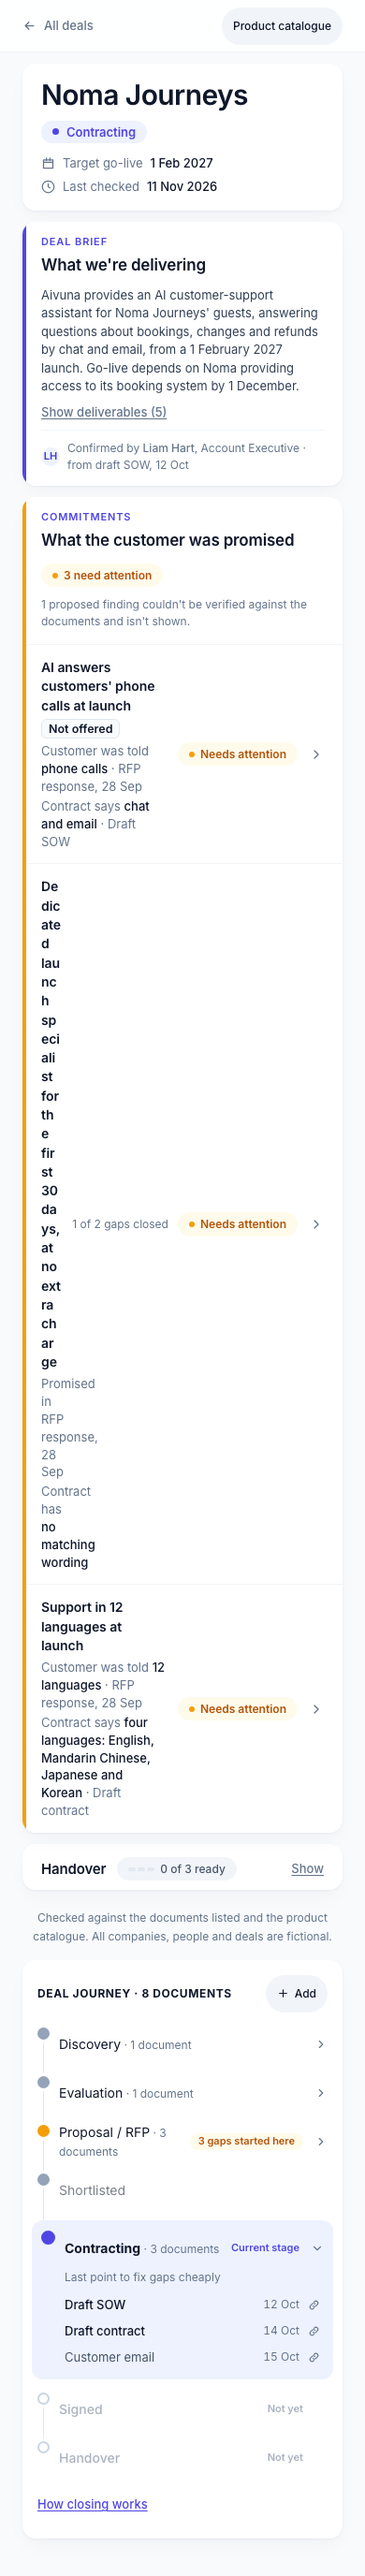
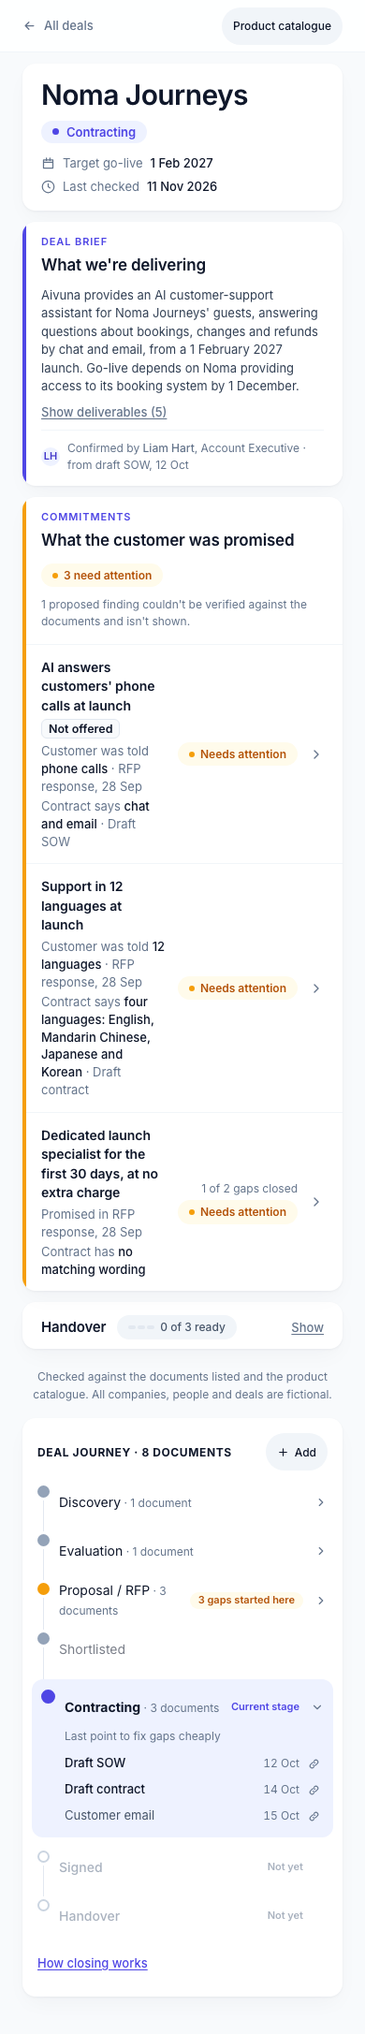
Public demo: 'Try it in 5 steps' guide card; phone row layout fix; tests 822/221

diff --git a/frontend/src/DealPage.jsx b/frontend/src/DealPage.jsx
@@ -20,8 +20,8 @@ import { IdentityLine, useScrolledPast } from "./Identity.jsx";
 import { CardHead, Drawer, DrawerHead, CommitmentView, DocumentView, MismatchSentence, TitleLine, Icon as DIcon, ICON } from "./Drawer.jsx";
 import { FICTIONAL } from "./brand.js";
 import CatalogueModal from "./CatalogueModal.jsx";
-import { DemoNameNote, SamplePicker, UseSampleText } from "./DemoUI.jsx";
-import { NAME_NOTE, REFUSED_FINDINGS, handoverSampleFor, noteLimit, noteSampleFor, useDemo } from "./demo.js";
+import { DemoNameNote, GuideCard, SamplePicker, UseSampleText } from "./DemoUI.jsx";
+import { NAME_NOTE, REFUSED_FINDINGS, guideAction, handoverSampleFor, noteLimit, noteSampleFor, useDemo } from "./demo.js";
 import "./DealPage.css";
 
 const Icon = ({ d, size = 15 }) => <DIcon d={d} size={size} />;
@@ -110,12 +110,12 @@ function AttentionChip({ open, noted }) {
 
 // One row of the list: title, the sentence-style mismatch line, where it was first promised, the status, a chevron. Click opens
 // the drawer; the row takes a soft accent tint while its commitment is open there.
-export function CommitRow({ c, status, active, onOpen }) {
+export function CommitRow({ c, status, active, onOpen, flash = false }) {
   const unresolved = c.issues.filter((i) => i.state !== "Resolved");
   const st = STATUS_CHIP[status];
   const noteRes = unresolved.find((i) => i.note_resolution)?.note_resolution;
   return (
-    <li className={`dp-prow is-${status} ${active ? "is-active" : ""}`}>
+    <li className={`dp-prow is-${status} ${active ? "is-active" : ""}${flash ? " is-flash" : ""}`}>
       <div className="dp-prow-head" onClick={onOpen} role="button" tabIndex={0} aria-haspopup="dialog" aria-expanded={active}
            onKeyDown={(e) => (e.key === "Enter" || e.key === " ") && (e.preventDefault(), onOpen())}>
         <span className="dp-prow-main">
@@ -688,6 +688,7 @@ export default function DealPage({ deal, onBack, onDealsChanged, onClassic }) {
   const [change, setChange] = useState(null); // the "What changed" card after a document or a recheck
   const [askName, setAskName] = useState(null); // { fn, initial }: the name prompt, only for actions that have no form of their own
   const [help, setHelp] = useState(false);
+  const [flash, setFlash] = useState({ row: null, handover: false }); // the guide card's target, highlighted for a moment
   const [handoverManual, setHandoverManual] = useState(null); // { stage, open }: a person's choice for the Handover card, kept until the stage changes or the page reloads
   const handoverBodyId = useId();
   // The drawer: { type: "commitment", id } | { type: "doc", docKey, quote, fromId } | { type: "add", fromId } | { type: "note", id }
@@ -727,6 +728,19 @@ export default function DealPage({ deal, onBack, onDealsChanged, onClassic }) {
     return () => window.removeEventListener("hashchange", onHash);
   }, [reg]);
 
+  // The guide card's "Do step N" (public mode): open the right place, scroll to it and highlight it briefly.
+  const doStep = (step) => {
+    const a = guideAction(step, reg.commitments);
+    if (a.drawer) setDrawer(a.drawer);
+    if (a.handover) setHandoverManual({ stage: reg.stage.current, open: true });
+    setFlash({ row: a.row, handover: a.handover });
+    setTimeout(() => {
+      const at = a.row != null ? promiseRowIds.indexOf(a.row) : -1; // the row's place in the list; the row markup itself carries no id
+      const target = a.handover ? document.getElementById("dp-handover") : at >= 0 ? document.querySelectorAll("#dp-commitments .dp-plist > li")[at] : document.getElementById("dp-commitments");
+      target?.scrollIntoView({ behavior: "smooth", block: "center" });
+    }, 60);
+    setTimeout(() => setFlash({ row: null, handover: false }), 2600);
+  };
   const openCommitment = (c) => { setDrawer({ type: "commitment", id: c.id }); writeHash(c.ref); };
   const closeDrawer = useCallback(() => { setDrawer(null); writeHash(null); }, [writeHash]);
 
@@ -784,6 +798,7 @@ export default function DealPage({ deal, onBack, onDealsChanged, onClassic }) {
     ...closedIds.map((id) => ({ c: byId(id), status: "closed" })),
   ].filter((r) => r.c));
   const statusOf = (id) => promiseRows.find((r) => r.c.id === id)?.status ?? "open";
+  const promiseRowIds = promiseRows.map((r) => r.c.id);
   const notes = reg.handover.notes;
   const STAGE_ORDER = ["discovery", "evaluation", "proposal", "shortlisted", "contracting", "signed", "handover"];
   const isSigned = STAGE_ORDER.indexOf(reg.stage.current) >= STAGE_ORDER.indexOf("signed"); // from the documents only
@@ -838,6 +853,8 @@ export default function DealPage({ deal, onBack, onDealsChanged, onClassic }) {
           {message && <div className={`dp-message is-${message.kind}`} role="status">{message.text}</div>}
           {change && <ChangePanel change={change} titleOf={(n) => reg.commitments.find((c) => c.name === n)?.display_name || n} onClose={() => setChange(null)} />}
 
+          {demo.public && <GuideCard deal={deal} documents={docs.documents} commitments={reg.commitments} onDo={doStep} />}
+
           <section className={`dp-card dp-promises ${openRows.length ? "is-attention" : "is-clear"}`} id="dp-commitments">
             <CardHead eyebrow="Commitments" title="What the customer was promised">
               <AttentionChip open={openRows.length} noted={(reg.noted_rows || []).length} />
@@ -846,12 +863,12 @@ export default function DealPage({ deal, onBack, onDealsChanged, onClassic }) {
             {promiseRows.length === 0 && <p className="dp-faint dp-pad">No commitments with gaps on the current documents.</p>}
             <ul className="dp-plist">
               {promiseRows.map(({ c, status }) => (
-                <CommitRow key={c.id} c={c} status={status} active={fromId === c.id} onOpen={() => openCommitment(c)} />
+                <CommitRow key={c.id} c={c} status={status} active={fromId === c.id} flash={flash.row === c.id} onOpen={() => openCommitment(c)} />
               ))}
             </ul>
           </section>
 
-          <section className="dp-card dp-handover">
+          <section className={`dp-card dp-handover ${flash.handover ? "is-flash" : ""}`.trim()} id="dp-handover">
             <HandoverHead checklist={checklist} missing={missing} open={handoverIsOpen} bodyId={handoverBodyId}
                           onToggle={() => setHandoverManual({ stage: reg.stage.current, open: !handoverIsOpen })} />
             <div className="dp-handover-body" id={handoverBodyId} hidden={!handoverIsOpen}>

diff --git a/frontend/src/demo.js b/frontend/src/demo.js
@@ -79,3 +79,48 @@ export const noteSampleFor = (demo, deal, commitment) => {
   return s && s.match.test(`${commitment?.display_name ?? ""} ${commitment?.name ?? ""}`) ? s : null;
 };
 export const handoverSampleFor = (demo, deal, role) => (demo?.public ? HANDOVER_SAMPLES[deal]?.[role] ?? null : null);
+
+// The guide card, "Try it in 5 steps" (11 Nov, public mode, Noma and Alder). Step numbers are the sample panel's numbers (1-3), so "After step N" there
+// refers to the card. A step is done when the deal shows it: a sample is in the deal (the same test the sample list uses), a note is recorded on
+// its row, or the handover is complete. The current step is the first one not done.
+export const GUIDE_TITLE = "Try it in 5 steps";
+export const GUIDE_DONE = "Done. Reset demo to try again.";
+export const GUIDES = {
+  noma_journeys: [
+    { label: "Launch specialist: add the approval", kind: "sample", sample: 0, row: /launch specialist/i },
+    { label: "Support in 12 languages: add the revised contract", kind: "sample", sample: 1, row: /12 languages/i },
+    { label: "Add the signed contract", kind: "sample", sample: 2, row: null },
+    { label: "Phone calls: record the customer's agreement as a note", kind: "note", row: /phone/i },
+    { label: "Complete the handover", kind: "handover", row: null },
+  ],
+  alder_bank: [
+    { label: "Coaching-scam detection: add the BioCatch connector approval", kind: "sample", sample: 0, row: /coaching/i },
+    { label: "Coaching-scam detection: add the revised SOW", kind: "sample", sample: 1, row: /coaching/i },
+    { label: "Add the signed contract", kind: "sample", sample: 2, row: null },
+    { label: "Hosting on Microsoft Azure: record the customer's agreement as a note", kind: "note", row: /hosting/i },
+    { label: "Complete the handover", kind: "handover", row: null },
+  ],
+};
+export const findGuideRow = (commitments, re) => (re ? (commitments ?? []).find((c) => re.test(`${c.display_name ?? ""} ${c.name ?? ""}`)) ?? null : null);
+
+export function guideSteps(deal, samples, documents, commitments, handoverComplete = false) {
+  const list = GUIDES[deal] ?? [];
+  const added = sampleSteps(samples ?? [], documents);
+  const done = list.map((g, i) => {
+    if (handoverComplete) return true;
+    if (g.kind === "sample") return added[g.sample]?.state === "done";
+    if (g.kind === "note") return (findGuideRow(commitments, g.row)?.noted_count ?? 0) > 0;
+    return false; // "Complete the handover" is done only when the record is locked
+  });
+  const current = done.indexOf(false);
+  return list.map((g, i) => ({ ...g, n: i + 1, state: done[i] ? "done" : i === current ? "current" : "later" }));
+}
+
+// Where "Do step N" goes: the drawer to open (the sample panel from that commitment, the sample panel from + Add, or that row's note form),
+// the row to scroll to and highlight, or the Handover card to expand and scroll to.
+export function guideAction(step, commitments) {
+  const row = findGuideRow(commitments, step.row);
+  if (step.kind === "sample") return { drawer: { type: "add", fromId: row ? row.id : null }, row: row ? row.id : null, handover: false };
+  if (step.kind === "note") return { drawer: row ? { type: "note", id: row.id } : null, row: row ? row.id : null, handover: false };
+  return { drawer: null, row: null, handover: true };
+}

diff --git a/frontend/src/DemoUI.jsx b/frontend/src/DemoUI.jsx
@@ -1,7 +1,7 @@
 // Public demo pieces (10 Nov): the banner, the note under a name field, and the sample-file list that replaces uploading.
 import { useEffect, useState } from "react";
 import * as api from "./api.js";
-import { ALL_ADDED, NAME_NOTE, NO_SAMPLES, addSample, filingLine, sampleSteps, useDemo } from "./demo.js";
+import { ALL_ADDED, GUIDES, GUIDE_DONE, GUIDE_TITLE, NAME_NOTE, NO_SAMPLES, addSample, filingLine, guideSteps, sampleSteps, useDemo } from "./demo.js";
 
 export function DemoBanner() {
   const demo = useDemo();
@@ -10,6 +10,37 @@ export function DemoBanner() {
 
 export function DemoNameNote() {
   return useDemo().public ? <p className="dp-faint dp-small demo-name-note">{NAME_NOTE}</p> : null;
+}
+
+// "Try it in 5 steps": above the commitments card on the public Noma and Alder deal pages. Done steps are ticked, the current one is highlighted
+// with a "Do step N" button, later ones are plain. The card can be collapsed. With the handover complete (the locked record) it says it is done.
+export function GuideCard({ deal, documents, commitments, onDo, handoverComplete = false, initialSamples = null, initialCollapsed = false }) {
+  const [samples, setSamples] = useState(initialSamples);
+  const [collapsed, setCollapsed] = useState(initialCollapsed);
+  useEffect(() => { if (!handoverComplete && !initialSamples) api.fetchSamples(deal).then((r) => setSamples(r.samples), () => setSamples([])); }, [deal, handoverComplete, initialSamples]);
+  if (!GUIDES[deal] || (!handoverComplete && !samples)) return null;
+  const steps = guideSteps(deal, samples, documents, commitments, handoverComplete);
+  const allDone = steps.every((s) => s.state === "done");
+  return (
+    <section className="dp-card demo-guide" aria-label={GUIDE_TITLE}>
+      <div className="demo-guide-head">
+        <h2>{GUIDE_TITLE}</h2>
+        <button type="button" className="dp-link-btn dp-brand" aria-expanded={!collapsed} onClick={() => setCollapsed(!collapsed)}>{collapsed ? "Show" : "Hide"}</button>
+      </div>
+      {!collapsed && allDone && <p className="demo-guide-done" role="status">{GUIDE_DONE}</p>}
+      {!collapsed && !allDone && (
+        <ol className="demo-guide-list">
+          {steps.map((s) => (
+            <li key={s.n} className={`is-${s.state}`}>
+              <span className="demo-guide-n" aria-hidden="true">{s.state === "done" ? "✓" : s.n}</span>
+              <span className="demo-guide-label">{s.label}<span className="dp-sr">{s.state === "done" ? " (done)" : ""}</span></span>
+              {s.state === "current" && <button type="button" className="dp-btn dp-btn-dark" onClick={() => onDo(s)}>Do step {s.n}</button>}
+            </li>
+          ))}
+        </ol>
+      )}
+    </section>
+  );
 }
 
 // A quiet link under a note box (public mode only): it fills the box; the visitor still saves.

diff --git a/frontend/src/App.css b/frontend/src/App.css
@@ -375,3 +375,25 @@ main.home { max-width: 1440px; }
 .demo-all-added { margin: 8px 0 0; padding: 10px 12px; border-radius: 8px; background: #f0fdf4; color: #166534; font-size: 13px; }
 @media (prefers-color-scheme: dark) { .demo-all-added { background: #0f2a1a; color: #86efac; } }
 .demo-sample-text { display: block; margin-top: 4px; text-align: left; font-size: 12px; }
+
+/* The guide card (11 Nov, public mode): done steps ticked, the current step highlighted with its button, later steps plain. */
+.demo-guide { padding: 16px 20px; }
+.demo-guide-head { display: flex; justify-content: space-between; align-items: baseline; gap: 12px; }
+.demo-guide-head h2 { margin: 0; font-size: 17px; }
+.demo-guide-list { list-style: none; margin: 10px 0 0; padding: 0; display: grid; gap: 4px; }
+.demo-guide-list li { display: flex; align-items: center; gap: 12px; padding: 8px 10px; border-radius: 8px; }
+.demo-guide-list li.is-current { background: var(--tint, #eef2ff); }
+.demo-guide-list li.is-current .demo-guide-label { font-weight: 600; }
+.demo-guide-list li.is-later { color: var(--muted, #64748b); }
+.demo-guide-list li.is-done { color: var(--muted, #64748b); }
+.demo-guide-n { flex: none; width: 22px; height: 22px; border-radius: 50%; display: inline-flex; align-items: center; justify-content: center; font-size: 12px; font-weight: 600; background: var(--dl-btn-soft, #f1f5f9); }
+.demo-guide-list li.is-done .demo-guide-n { background: #dcfce7; color: #166534; }
+.demo-guide-list li.is-current .demo-guide-n { background: #4f46e5; color: #fff; }
+.demo-guide-label { flex: 1; min-width: 0; }
+.demo-guide-done { margin: 8px 0 0; padding: 10px 12px; border-radius: 8px; background: #f0fdf4; color: #166534; font-size: 14px; }
+@media (prefers-color-scheme: dark) { .demo-guide-done { background: #0f2a1a; color: #86efac; } .demo-guide-list li.is-current { background: #1e2547; } }
+@media (max-width: 639px) { .demo-guide-list li { flex-wrap: wrap; } .demo-guide-list li .dp-btn { margin-left: 34px; } }
+@keyframes demo-flash { 0%, 55% { background: #fde68a; box-shadow: 0 0 0 2px #f59e0b; } 100% { background: transparent; box-shadow: none; } }
+.dp-prow.is-flash .dp-prow-head { animation: demo-flash 2.4s ease-out; }
+.dp-handover.is-flash { animation: demo-flash 2.4s ease-out; }
+@media print { .demo-guide { display: none; } }

diff --git a/frontend/src/FrozenRecord.jsx b/frontend/src/FrozenRecord.jsx
@@ -13,6 +13,8 @@ import BriefCard from "./BriefCard.jsx";
 import { appendixEntries, hasStoredText, shortHash } from "./docHash.js";
 import { IdentityLine, useScrolledPast } from "./Identity.jsx";
 import { FICTIONAL } from "./brand.js";
+import { GuideCard } from "./DemoUI.jsx";
+import { useDemo } from "./demo.js";
 import "./DealPage.css";
 
 const Lock = ({ size = 14 }) => (
@@ -74,6 +76,7 @@ function PrintDetail({ v }) {
 }
 
 export default function FrozenRecord({ deal, onBack }) {
+  const demo = useDemo();
   const [hv, setHv] = useState(null);
   const [error, setError] = useState(null);
   const [copied, setCopied] = useState(false);
@@ -154,6 +157,8 @@ export default function FrozenRecord({ deal, onBack }) {
           <button type="button" className="dp-btn" onClick={printAll} disabled={withText && appendix.some((a) => a.text === null)}>Print or save as PDF</button>
         </span>
       </div>
+
+      {demo.public && <div className="fr-noprint"><GuideCard deal={deal} documents={[]} commitments={[]} handoverComplete /></div>}
 
       <div className="fr-bar">
         <Lock size={14} /> <span>Handover complete · locked on <strong>{fmtDate(hv.completed_at)}</strong> by <strong>{plainName(hv.completed_by)}</strong></span>

diff --git a/frontend/src/DealPage.css b/frontend/src/DealPage.css
@@ -538,3 +538,8 @@ main.home.home-deal { max-width: none; margin: 0; padding: 0; }
 .dp-prow-state { display: inline-flex; align-items: center; gap: 10px; flex: none; }
 .dp-prow-progress { font-size: 12px; color: var(--muted); white-space: nowrap; }
 .dr-also { color: var(--muted); }
+/* Narrow screens: the gap progress sits above the status chip instead of beside it, so it cannot squeeze the row's title into a column of letters. */
+@media (max-width: 639px) {
+  .dp-prow-state { flex-direction: column; align-items: flex-end; gap: 4px; }
+  .dp-prow-progress { white-space: normal; text-align: right; }
+}

diff --git a/DECISIONS.md b/DECISIONS.md
@@ -1444,3 +1444,11 @@ Display only; no engine, reading or scenario change.
 - **Stable row order, revised.** The first-promised date (earlier today) can move after a check, so it is not a sort key. Rows now sort by the commitment's stored id, the order they were first recorded in the deal; a commitment keeps its id through every later review, so nothing a check changes can move a row, for any visitor and after a reset. Tested by running all three Noma samples and the phone-row note through the API (every commitment keeps its name-to-id map) and in a real browser (rows read phone calls, 12 languages, launch specialist before, after each sample and after the note).
 - **"Use sample text" (public mode only).** A link on the note form (the Noma phone row and the Alder hosting row only) and on both handover note fields of both deals. It fills the box and, on the two row notes, selects "Mark as addressed by note"; the visitor still clicks Save, and nothing is saved by the link (checked in the browser: the register is unchanged until Save). The Alder hosting note also selects "addressed", which was not specified: it is the same kind of note (the customer agreed it), and "keep it open" would leave the row amber. The texts are exactly as supplied and within the 500-character public limit.
 - **Checked:** Python 822 tests OK (820 + 2), frontend 214 pass (208 + 6 in `tests/last_polish.test.mjs`; the stable-order test in `tests/polish.test.mjs` now pins the id rule). SHA-256 before and after: engine files, `results/v2_cache`, `data/scenarios/`, `api.py`, `public_demo.py`, `workspace.py` and the real ledger unchanged.
+
+## 2026-11-11 (guide): "Try it in 5 steps" card, public mode
+
+- **What:** a card above the commitments card on the public Noma and Alder deal pages (`GuideCard` in `DemoUI.jsx`; steps and rules in `demo.js`). Noma: 1 Launch specialist: add the approval; 2 Support in 12 languages: add the revised contract; 3 Add the signed contract; 4 Phone calls: record the customer's agreement as a note; 5 Complete the handover. Alder: the two Coaching-scam detection steps (BioCatch connector approval, revised SOW), the signed contract, the Hosting on Microsoft Azure note, and the handover. The card can be collapsed.
+- **State is derived from the deal, never stored:** steps 1-3 are done when their sample is in the deal (the same test the sample list uses, so "After step N" in the sample panel means this card's step N); step 4 when its row has a note recorded on it; step 5 when the handover is complete. The first step not done is current (highlighted, with "Do step N"); later ones are plain. A reset puts the card back at step 1. Once the handover is complete the deal page becomes the locked record, so the "Done. Reset demo to try again." state is shown there (public mode only, not printed).
+- **"Do step N" opens the right place:** steps 1-2 open that commitment's drawer straight on the sample panel, step 3 the sample panel from + Add, step 4 that row's note form (Use sample text is there), step 5 expands and scrolls to Handover. It scrolls to the target row and highlights it for a moment. The routing is one pure function (`guideAction`), tested; the row markup is unchanged (the row is found by its place in the list), the row order is unchanged, local mode is unchanged.
+- **Found while checking at 390px (fixed):** the "1 of 2 gaps closed" text added earlier today sat beside the status chip and squeezed the row's title into a column of single letters on a phone. At 639px and below it now stacks above the chip. The 390px "after sample 1" screenshots were retaken.
+- **Checked:** Python 822 tests OK (unchanged: no backend change), frontend 221 pass (214 + 6 in `tests/guide_card.test.mjs` + 1 in `tests/polish.test.mjs`). In a real browser, on a scratch ledger, all five Noma steps were clicked through (each opened its target, steps 1-2 and 4 highlighted their row, step 5 expanded and highlighted Handover, and the locked record showed the done message); Alder step 1 opened the coaching row's sample panel. Screenshots: `docs/screens/2026-11-11/public_noma_guide_1440.png` and `_390.png`. SHA-256 before and after: engine files, `results/v2_cache`, `data/scenarios/`, `api.py`, `workspace.py`, `public_demo.py` and the real ledger unchanged.
